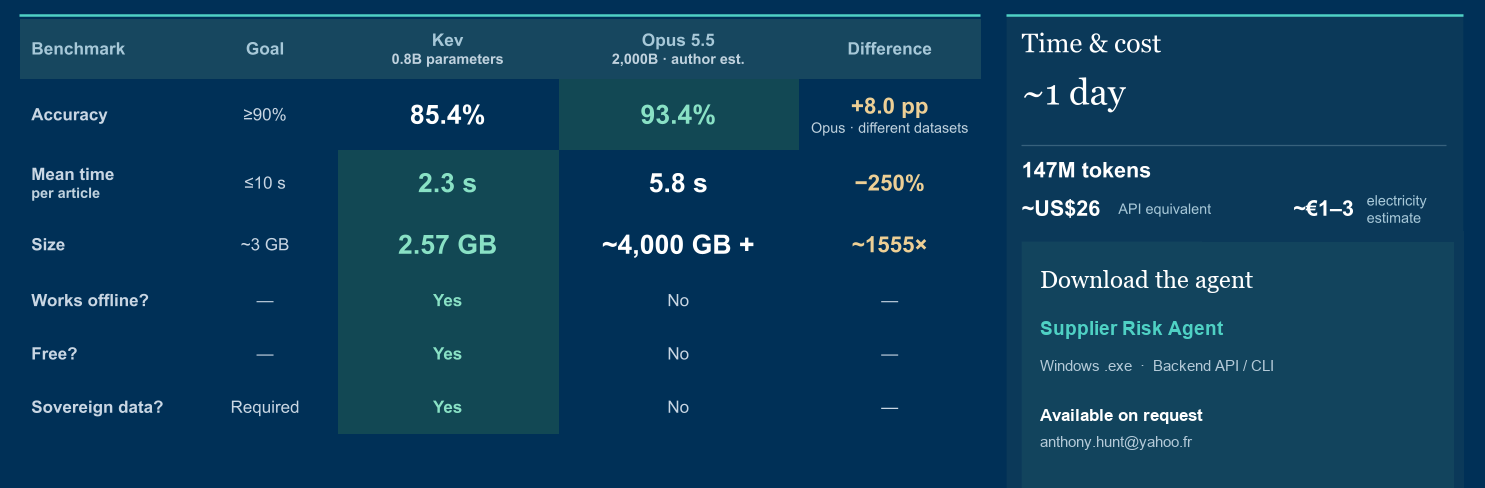
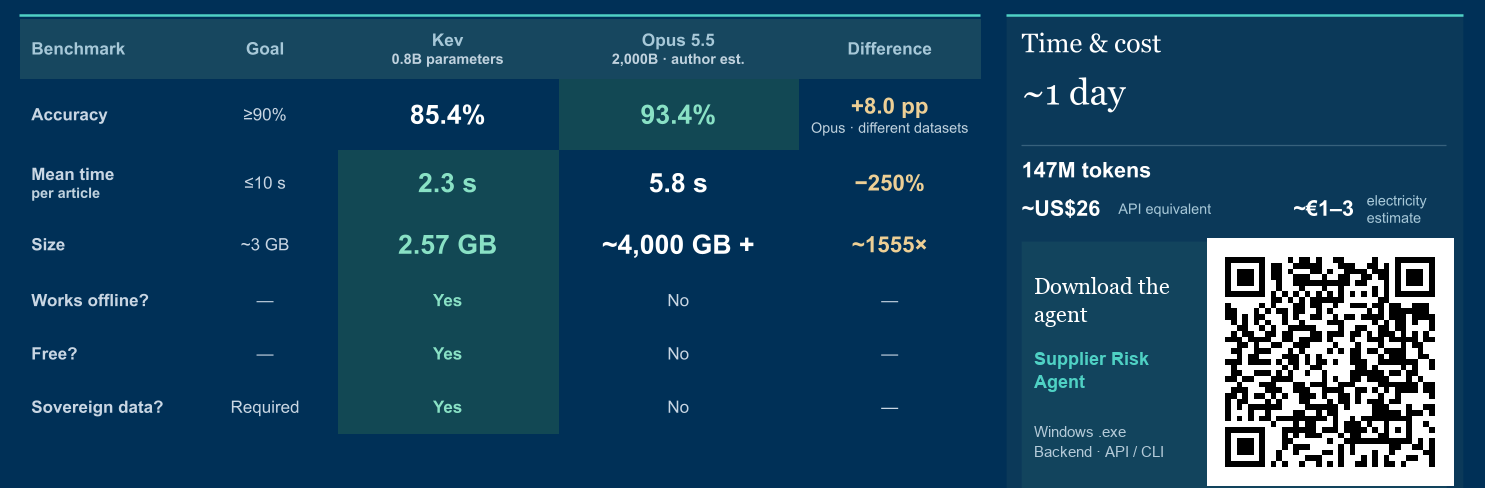
Add the download link and QR code for the anonymised agent
The QR code and link point to a new public folder with the renamed
Supplier Risk Agent package (same decisions as before on 30 articles).

Changed region(s): [[0.6815, 0.4611, 0.9912, 1.0]]

diff --git a/README.md b/README.md
@@ -16,6 +16,10 @@ General-purpose models are good at almost everything, and they are priced, sized
 
 <sub>The two accuracy scores come from different test sets, and the 90 % target has not been reached yet. The frontier model's size is an estimate.</sub>
 
+### Try the agent
+
+**[Download the Supplier Risk Agent](https://drive.google.com/drive/folders/1MrujvzAUr4UVTZc04md_izqEztCpwtIM)** (or scan the QR code above): a Windows desktop app that reads the news and flags supplier risks, and a Linux backend with a local API and CLI. The model and its runtime are included; nothing runs in the cloud. Setup instructions are in the folder's README.
+
 ## A worked case: supplier risk from the news
 
 Presented to the supply-chain leadership of a Fortune 50 technology company as part of a Georgia Tech executive briefing programme.
